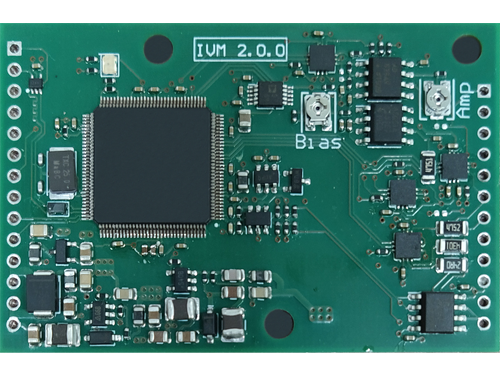
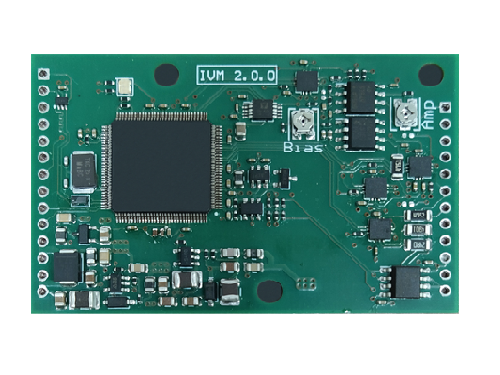
fix typo (#89674)

diff --git a/data/products.py b/data/products.py
@@ -195,7 +195,7 @@ products = (
             _("-->Основные функции ПО EPLab:<!--"),
             _("--><ul><li>Регулируемый порог совпадения сигнатур"),
             _("Поддержка режима «План тестирования»"),
-            _("Поддержка ОС: Windows 7 и новее, Linux (протестировано на Ubuntu18, 2020 x64, другие версии Linux по запросу)"),
+            _("Поддержка ОС: Windows 7 SP1 и новее, Linux (протестировано на Ubuntu 18.04, 20.04; AstraLinux - 4.15.3)"),
             _("Возможность программного управления: C/C++, C#, Python"),
         ],
     ),
@@ -237,7 +237,7 @@ products = (
             _("-->Основные функции ПО EPLab:<!--"),
             _("--><ul><li>Регулируемый порог совпадения сигнатур"),
             _("Поддержка режима «План тестирования»"),
-            _("Поддержка ОС: Windows 7 и новее, Linux (протестировано на Ubuntu18, 2020 x64, другие версии Linux по запросу)"),
+            _("Поддержка ОС: Windows 7 SP1 и новее, Linux (протестировано на Ubuntu 18.04, 20.04; AstraLinux - 4.15.3)"),
             _("Возможность программного управления: C/C++, C#, Python"),
         ],
     ),
@@ -279,7 +279,7 @@ products = (
             _("-->Основные функции ПО EPLab:<!--"),
             _("--><ul><li>Регулируемый порог совпадения сигнатур"),
             _("Поддержка режима «План тестирования»"),
-            _("Поддержка ОС: Windows 7 и новее, Linux (протестировано на Ubuntu18, 2020 x64, другие версии Linux по запросу)"),
+            _("Поддержка ОС: Windows 7 SP1 и новее, Linux (протестировано на Ubuntu 18.04, 20.04; AstraLinux - 4.15.3)"),
             _("Возможность программного управления: C/C++, C#, Python"),
         ],
     ),
@@ -321,7 +321,7 @@ products = (
             _("-->Основные функции ПО EPLab:<!--"),
             _("--><ul><li>Регулируемый порог совпадения сигнатур"),
             _("Поддержка режима «План тестирования»"),
-            _("Поддержка ОС: Windows 7 и новее, Linux (протестировано на Ubuntu18, 2020 x64, другие версии Linux по запросу)"),
+            _("Поддержка ОС: Windows 7 SP1 и новее, Linux (протестировано на Ubuntu 18.04, 20.04; AstraLinux - 4.15.3)"),
             _("Возможность программного управления: C/C++, C#, Python"),
         ],
     ),
@@ -363,7 +363,7 @@ products = (
             _("-->Основные функции ПО EPLab:<!--"),
             _("--><ul><li>Регулируемый порог совпадения сигнатур"),
             _("Поддержка режима «План тестирования»"),
-            _("Поддержка ОС: Windows 7 и новее, Linux (протестировано на Ubuntu18, 2020 x64, другие версии Linux по запросу)"),
+            _("Поддержка ОС: Windows 7 SP1 и новее, Linux (протестировано на Ubuntu 18.04, 20.04; AstraLinux - 4.15.3)"),
             _("Возможность программного управления: C/C++, Python"),
         ],
     ),
@@ -391,8 +391,8 @@ products = (
         ],
         technical=[
             _("Напряжение питания: 5 В (от USB)"),
-            _("Возможность подключить к ПК по USB Type-C (Windows, Linux)"),
-            _("Возможность программного управления: (C/C++, C#, Python)"),
+            _("Возможность подключить к ПК по USB Type-C"),
+            _("Возможность программного управления: C/C++, C#, Python"),
             _("Габариты: 130 x 75 x 17.5 мм"),
             _("Вес: 0.115 кг"),
         ],
